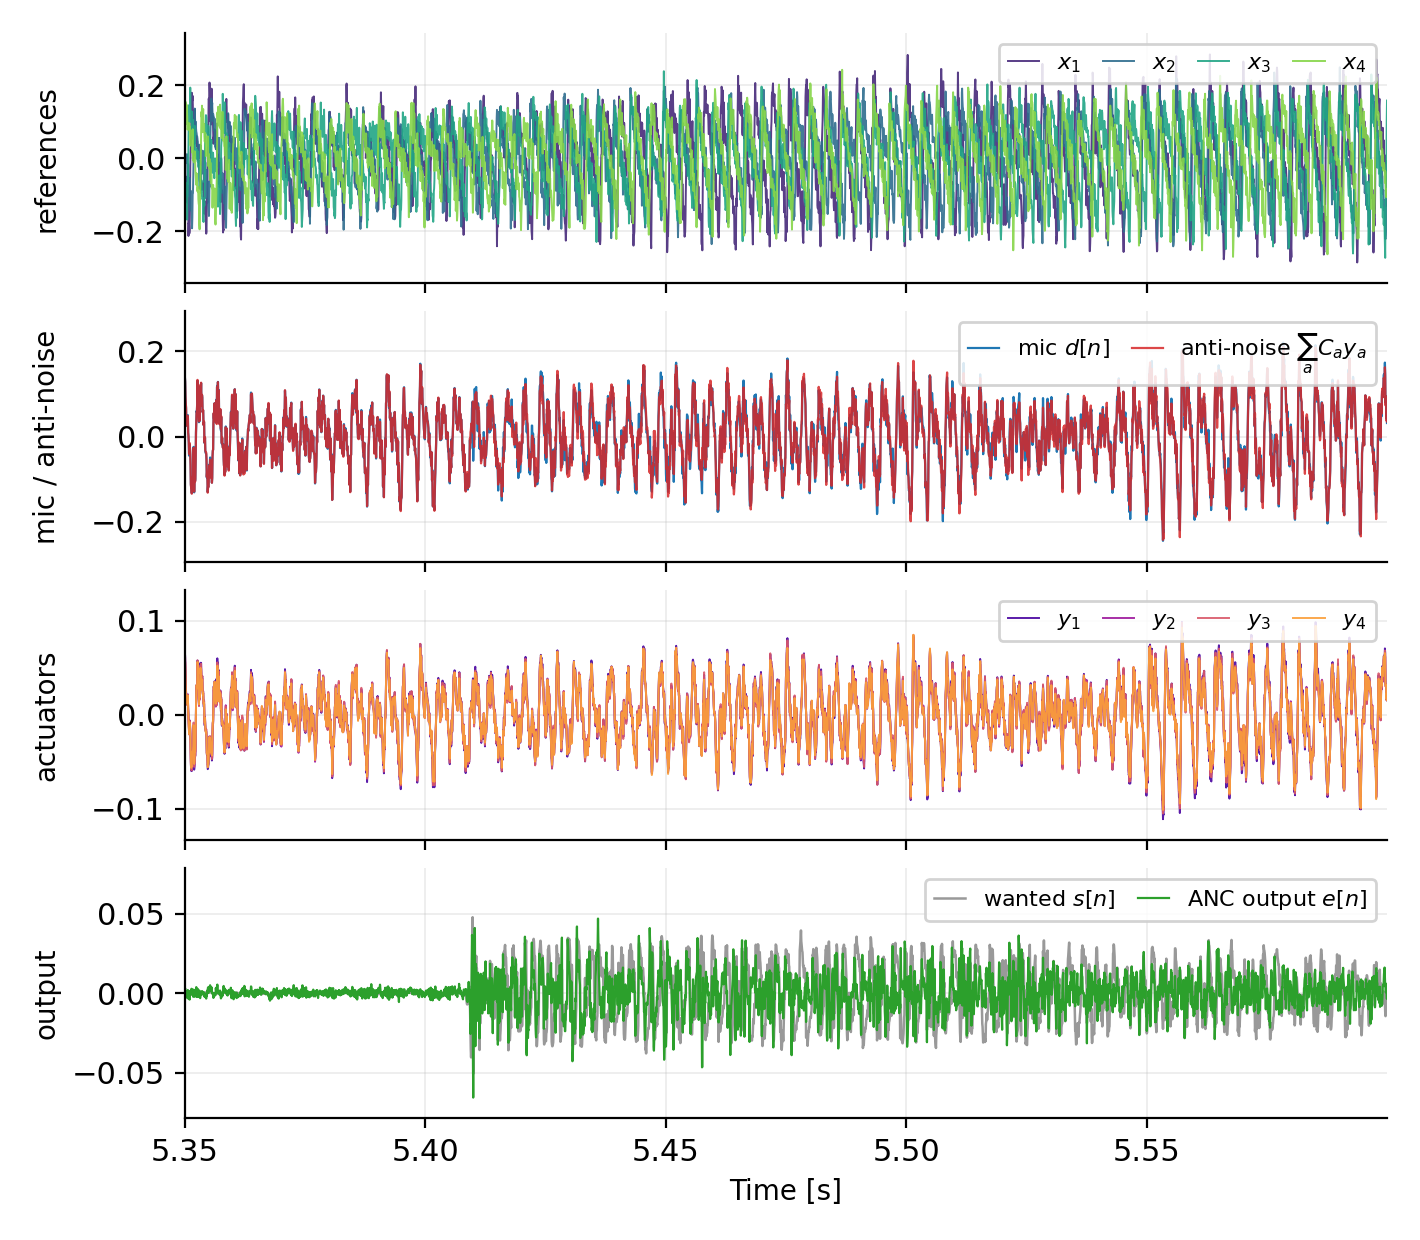
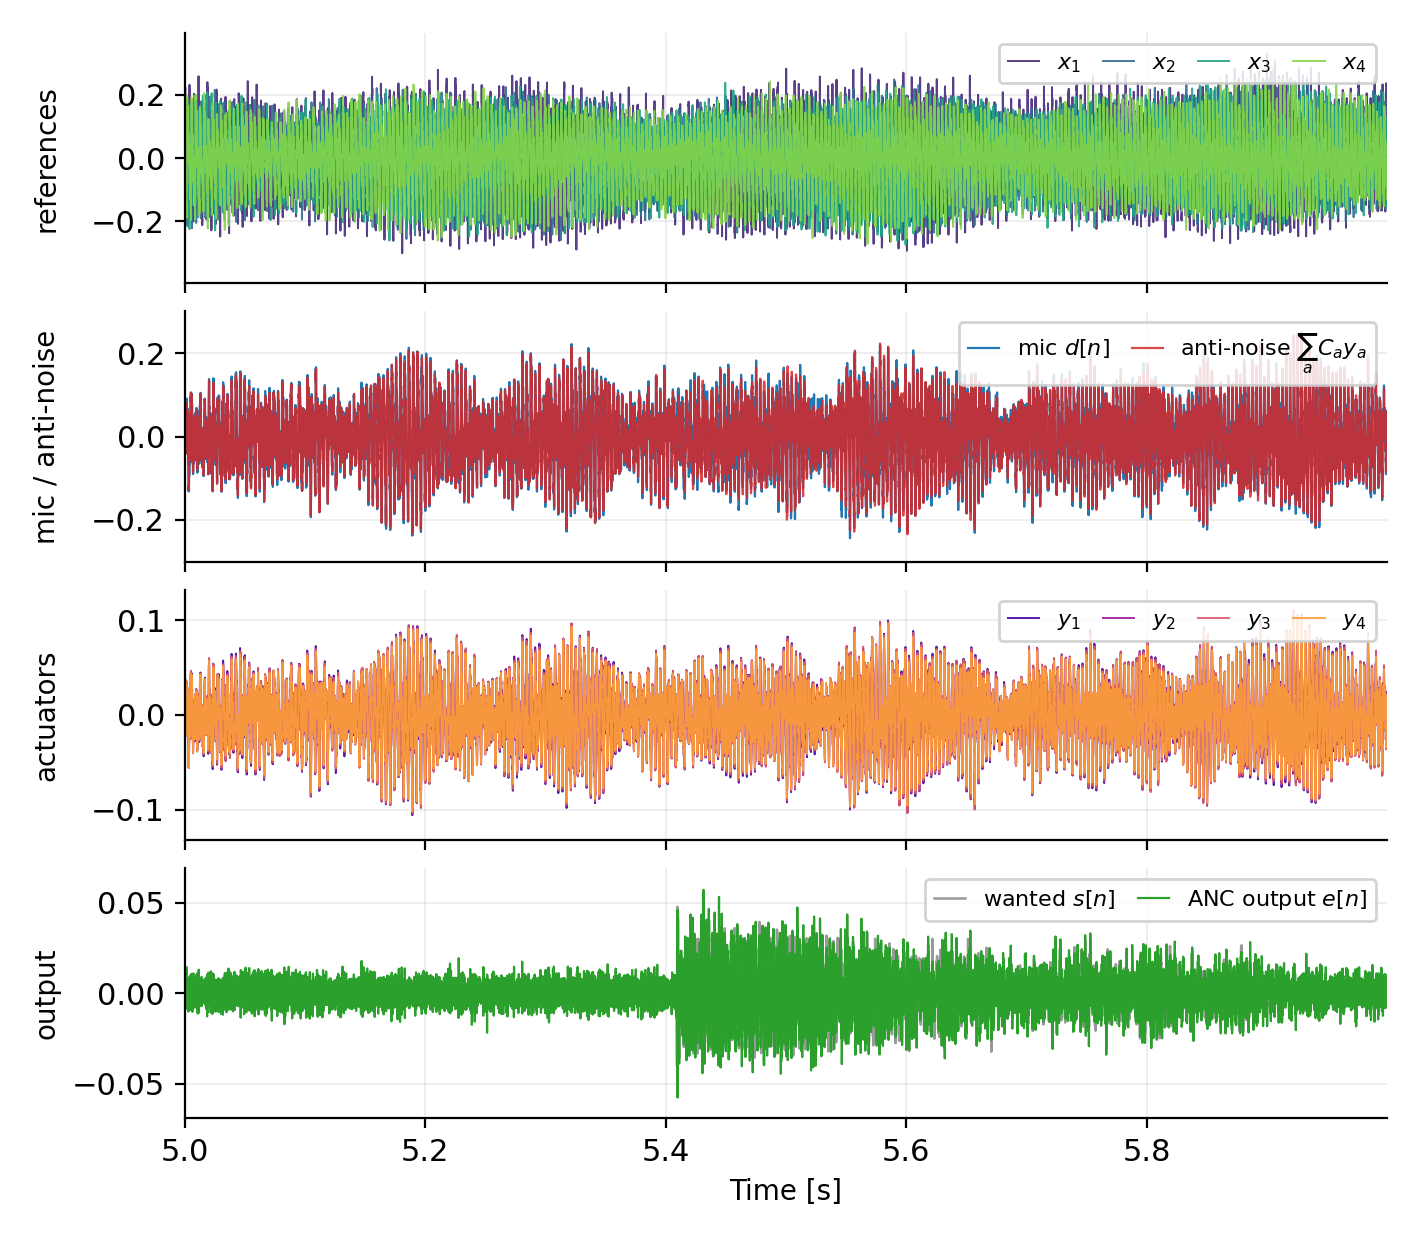
feat: update normalized learning rate in FxLMS algorithm and improve report clarity

diff --git a/scripts/lms-filter/report/main.tex b/scripts/lms-filter/report/main.tex
@@ -34,7 +34,7 @@ maxamart@fel.cvut.cz}}
 \maketitle
 
 \begin{abstract}
-Palubní mikrofon zachycuje spolu s~okolními zvuky také hluk motorů a~vrtulí. Tato složka může u~krátkých impulzních událostí, například výstřelu, výrazně snížit poměr signálu k~rušení. Práce popisuje simulaci aktivního potlačení hluku algoritmem filtered-x least mean squares (FxLMS). Reference vznikají z~řídicích signálů motorů, takže systém nepotřebuje referenční mikrofony. Adaptivní filtr používá normalizovaný krok, jehož jmenovatel tvoří součet výkonů filtrovaných referencí ve všech kanálech. Jedna hodnota rychlosti učení proto vyhovuje konfiguracím SISO, sum-first i~MISO bez ručního přepočtu podle počtu kanálů. Algoritmus je implementován v~jazyce C s~aritmetikou Q15. V~simulovaném scénáři potlačil vlastní hluk dronu o~18{,}8 až 20{,}8\,dB; rozdíl mezi SISO a~maticovou konfigurací 4$\times$4 činil 2\,dB.
+Palubní mikrofon zachycuje spolu s~okolními zvuky také hluk motorů a~vrtulí. Tato složka může u~krátkých impulzních událostí, například výstřelu, výrazně snížit poměr signálu k~rušení. Práce popisuje simulaci aktivního potlačení hluku algoritmem filtered-x least mean squares (FxLMS). Reference vznikají z~řídicích signálů motorů, takže systém nepotřebuje referenční mikrofony. Adaptivní filtr používá normalizovaný krok, jehož jmenovatel tvoří součet výkonů filtrovaných referencí ve všech kanálech. Jedna hodnota rychlosti učení proto vyhovuje konfiguracím SISO, sum-first i~MISO bez ručního přepočtu podle počtu kanálů. Algoritmus je implementován v~jazyce C s~aritmetikou Q15. V~simulovaném scénáři potlačil vlastní hluk dronu o~21{,}3 až 24{,}5\,dB; rozdíl mezi SISO a~maticovou konfigurací 4$\times$4 činil přibližně 3\,dB.
 \end{abstract}
 
 \begin{IEEEkeywords}
@@ -104,7 +104,7 @@ kde $\mu$ je bezrozměrná rychlost učení a $P[n]$ je okamžitý výkon filtro
 Kladná konstanta $\varepsilon$ brání dělení nulou a~omezuje velikost kroku při slabé referenci. Implementace používá aritmetiku Q15 a~saturuje výstup i~váhy.
 
 \subsection*{Normalizovaný krok a jeho význam}
-U~běžného LMS je velikost aktualizace $\mu\,e[n]\,x_f[n-i]$ přímo závislá na výkonu reference. Hodnota $\mu$ zvolená pro jednu úroveň vstupu proto může při silnějším signálu způsobit nestabilitu a~při slabším signálu zpomalit konvergenci. Normalizace výkonem $P[n]$ tuto závislost omezuje. Parametr $\mu$ je bezrozměrný, obvykle se volí v~rozsahu $0<\mu\lesssim 1$ a~v~této práci má hodnotu přibližně 0{,}5. Ve vícekanálové variantě zahrnuje $P[n]$ všechny reference a~aktuátory, takže se $\mu$ nemusí přepočítávat podle počtu kanálů.
+U~běžného LMS je velikost aktualizace $\mu\,e[n]\,x_f[n-i]$ přímo závislá na výkonu reference. Hodnota $\mu$ zvolená pro jednu úroveň vstupu proto může při silnějším signálu způsobit nestabilitu a~při slabším signálu zpomalit konvergenci. Normalizace výkonem $P[n]$ tuto závislost omezuje. Parametr $\mu$ je bezrozměrný, obvykle se volí v~rozsahu $0<\mu\lesssim 1$ a~v~této práci má hodnotu přibližně 0{,}09 (3000 ve~formátu Q15). Ve vícekanálové variantě zahrnuje $P[n]$ všechny reference a~aktuátory, takže se $\mu$ nemusí přepočítávat podle počtu kanálů.
 
 \subsection*{Vektorové rozšíření}
 
@@ -163,21 +163,25 @@ Výsledky v~následující sekci vznikly ze scénáře s~impulzním audio soubor
 \begin{quote}
 \scriptsize\ttfamily
 task run --\\
+--mode miso --reference-count 4\\
+--actuator-count 4\\
 --wanted-wav audio/gunshot-vs-firecracker.wav\\
 --duration-s 10 --plot-window 5..6\\
---spectrum-window 5..6 --wanted-gain 0.1\\
---mode miso --reference-count 4\\
---actuator-count 4
+--spectrum-window 5..6 --wanted-gain 0.1
 \end{quote}
 
 Soubor \code{metrics.json} obsahuje střední kvadratické chyby primárního signálu, chybového signálu a~reziduálního hluku. Útlum dronu v~decibelech počítáme jako
 \begin{equation}
-  A_{\mathrm{drone}} = 10\log_{10}\frac{\mathrm{MSE}(d_{\mathrm{drone}})}{\mathrm{MSE}(e-s)}.
+  A_{\mathrm{drone}} = 10\log_{10}\frac{\mathrm{MSE}(d_{\mathrm{drone}})}{\mathrm{MSE}(e-s)},
+  \label{eq:drone_atten}
 \end{equation}
-Metrika vyjadřuje pouze potlačení vlastního hluku v~daném okně. Úspěšnost detekce výstřelu nehodnotí.
+přičemž obě střední kvadratické chyby se počítají ve~vyhodnocovacím okně 5--6\,s (parametr \code{--spectrum-window}), tedy po~odeznění počátečního přechodového děje. Metrika vyjadřuje pouze potlačení vlastního hluku, úspěšnost detekce výstřelu nehodnotí.
+
+\subsection{Výpočet spektra}
+Spektrální vyhodnocení na~obr.~\ref{fig:spectrum_result} probíhá na témže okně 5--6\,s. Výkonové spektrální hustoty počítáme Welchovou metodou (Hannovo okno 4096 vzorků, 50\,\% překryv), čímž průměrujeme přes několik segmentů. Křivky jsou pro čitelnost vyhlazeny 1/12oktávovým klouzavým průměrem a~vyneseny na~logaritmické frekvenční ose. Útlum v~závislosti na~frekvenci $A(f)=\mathrm{PSD}_{d_{\mathrm{drone}}}(f)-\mathrm{PSD}_{e-s}(f)$ vykreslujeme přes celé pásmo: zeleně frekvence, kde regulátor energii potlačuje, červeně frekvence, kde ji naopak přidává. Na~frekvencích bez dronové energie (pod základní BPF a~nad horní hranicí pracovního pásma) regulátor vkládá slabý anti-hluk; ověřili jsme, že reziduum tam odpovídá výstupu sekundárních cest, jde tedy o~reálně vstříknutou energii, nikoli o~numerický artefakt. Tato složka však leží o~40\,dB i~více pod tonálními složkami dronu (viz absolutní úrovně v~horním panelu), takže do~celkové energie přispívá zanedbatelně; energeticky vážený průměr přes celé pásmo je díky Parsevalově rovnosti shodný s~$A_{\mathrm{drone}}$ podle~\eqref{eq:drone_atten} a~uvádíme jej v~tabulce~\ref{tab:metrics}.
 
 \section{Výsledky}
-Tabulka~\ref{tab:metrics} porovnává tři konfigurace v~okně 5--6\,s. Ve všech případech jsme použili impulzní WAV s~\code{--wanted-gain 0.1}, $\mu=16384$ v~Q15, délku filtru $L=128$ a~vzorkovací kmitočet $f_s=16$\,kHz. Útlum počítáme z~reziduálního hluku $e-s$ po odečtení užitečného signálu.
+Tabulka~\ref{tab:metrics} porovnává tři konfigurace. Útlum je energeticky vážený průměr v~okně 5--6\,s podle~\eqref{eq:drone_atten}. Ve všech případech jsme použili impulzní WAV s~\code{--wanted-gain 0.1}, $\mu=3000$ v~Q15, délku filtru $L=64$ a~vzorkovací kmitočet $f_s=16$\,kHz. Útlum počítáme z~reziduálního hluku $e-s$ po odečtení užitečného signálu.
 
 \begin{table}[htbp]
 \caption{Útlum dronu pro jednotlivé konfigurace (okno 5--6\,s)}
@@ -187,28 +191,28 @@ Tabulka~\ref{tab:metrics} porovnává tři konfigurace v~okně 5--6\,s. Ve všec
 \toprule
 Režim & Reference & Aktuátory & Útlum dronu [dB] \\
 \midrule
-SISO & 1 & 1 & 20{,}8 \\
-sum-first & 1 & 4 & 20{,}1 \\
-MISO & 4 & 4 & 18{,}8 \\
+SISO & 1 & 1 & 24{,}5 \\
+sum-first & 1 & 4 & 24{,}4 \\
+MISO & 4 & 4 & 21{,}3 \\
 \bottomrule
 \end{tabular}
 \end{table}
 
-Naměřený útlum se pohybuje od 18{,}8 do 20{,}8\,dB. MISO se čtyřmi referencemi a~čtyřmi aktuátory používá 16 adaptivních filtrů, přesto za SISO zaostává pouze o~2\,dB. Normalizace podle \eqref{eq:fxlms_power_multi} zmenšuje krok podle celkového výkonu kanálů. Dřívější verze místo toho dělila $\mu$ pevnou konstantou a~u~konfigurace 4$\times$4 dosahovala útlumu pouze v~jednotkách decibelů.
+Naměřený útlum se pohybuje od 21{,}3 do 24{,}5\,dB. MISO se čtyřmi referencemi a~čtyřmi aktuátory používá 16 adaptivních filtrů, přesto za SISO zaostává jen přibližně o~3\,dB. Normalizace podle \eqref{eq:fxlms_power_multi} zmenšuje krok podle celkového výkonu kanálů. Dřívější verze místo toho dělila $\mu$ pevnou konstantou a~u~konfigurace 4$\times$4 dosahovala útlumu pouze v~jednotkách decibelů.
 
-Časový průběh MISO 4$\times$4 na obr.~\ref{fig:time_result} zachycuje okolí impulzu mezi 5{,}35 a~5{,}6\,s. Událost v~čase přibližně 5{,}41\,s zůstává v~chybovém signálu, zatímco periodická složka motorů klesne. Spektra na obr.~\ref{fig:spectrum_result} potvrzují, že filtr tlumí především oblast do 1\,kHz s~dominantními složkami BPF. Nad pracovním pásmem jeho účinek slábne.
+Časový průběh MISO 4$\times$4 na obr.~\ref{fig:time_result} zachycuje okno 5--6\,s. Impulzní událost přibližně v~čase 5{,}4\,s zůstává v~chybovém signálu, zatímco periodická složka motorů klesne. Spektra na obr.~\ref{fig:spectrum_result} potvrzují, že filtr tlumí především tonální složky BPF v~pásmu do 1\,kHz (zeleně), zatímco na~frekvencích bez dronové energie naopak vkládá slabý anti-hluk (červeně) o~desítky dB pod tóny dronu. Energeticky vážený průměr přes celé pásmo proto zůstává určen tonálními složkami a~odpovídá hodnotě z~tabulky. Nad pracovním pásmem účinek postupně slábne.
 
 \begin{figure*}[tb]
 \centering
 \includegraphics[width=0.92\textwidth]{figures/fxlms_demo_miso.png}
-\caption{Časový průběh MISO 4$\times$4 v~okolí impulzu mezi 5{,}35 a~5{,}6\,s. Panely shora zobrazují čtyři motorové reference $x_i[n]$, mikrofonní signál $d[n]$ se součtem odrušovacích složek $\sum_a C_a(z)y_a[n]$, výstupy aktuátorů $y_a[n]$ a~výstup ANC $e[n]$ s~užitečným signálem $s[n]$. Každý panel používá vlastní měřítko svislé osy.}
+\caption{Časový průběh MISO 4$\times$4 v~okně 5--6\,s. Panely shora zobrazují čtyři motorové reference $x_i[n]$, mikrofonní signál $d[n]$ se součtem odrušovacích složek $\sum_a C_a(z)y_a[n]$, výstupy aktuátorů $y_a[n]$ a~výstup ANC $e[n]$ s~užitečným signálem $s[n]$. Každý panel používá vlastní měřítko svislé osy.}
 \label{fig:time_result}
 \end{figure*}
 
 \begin{figure*}[tb]
 \centering
 \includegraphics[width=0.92\textwidth]{figures/fxlms_spectrum_miso.png}
-\caption{Spektrální porovnání MISO 4$\times$4 v~okně 5--6\,s s~logaritmickou frekvenční osou a~1/12oktávovým vyhlazením. Horní panel zobrazuje PSD vstupu $d[n]$, výstupu ANC $e[n]$ a~užitečného signálu $s[n]$. Dolní panel udává útlum dronového hluku; kladné hodnoty znamenají potlačení. Modrá plocha vyznačuje pracovní pásmo ANC do 1\,kHz.}
+\caption{Spektrální porovnání MISO 4$\times$4 v~okně 5--6\,s (Welchova metoda) s~logaritmickou frekvenční osou a~1/12oktávovým vyhlazením. Horní panel zobrazuje PSD vstupu $d[n]$, výstupu ANC $e[n]$ a~užitečného signálu $s[n]$. Dolní panel udává útlum dronového hluku přes celé pásmo: zeleně frekvence s~potlačením, červeně frekvence, kde regulátor energii přidává (slabý anti-hluk o~desítky dB pod tóny dronu).}
 \label{fig:spectrum_result}
 \end{figure*}
 
@@ -256,7 +260,7 @@ Směrové ANC bude vyžadovat polohu každého motoru, reproduktoru a~mikrofonu.
 Vliv filtru na detekci impulzů je třeba ověřit samostatně. Jednoduchý detektor založený na~krátkodobé energii nebo spektrální změně umožní porovnat počet správných a~chybných detekcí před filtrací a~po ní. Klasifikátor má smysl přidat až po tomto měření.
 
 \section{Závěr}
-Implementovaný FxLMS filtr potlačil v~simulaci vlastní hluk dronu o~18{,}8 až 20{,}8\,dB. Normalizovaný krok umožnil použít stejnou rychlost učení v~režimech SISO, sum-first i~MISO. Výsledky platí pro syntetické akustické cesty a~nepředpovídají výkon na skutečném dronu. Ten bude záviset na synchronizaci úhlové reference, koherenci harmonických BPF a~identifikaci sekundárních cest. Prostorové potlačení navíc vyžaduje geometrický model celé sestavy.
+Implementovaný FxLMS filtr potlačil v~simulaci vlastní hluk dronu o~21{,}3 až 24{,}5\,dB. Normalizovaný krok umožnil použít stejnou rychlost učení v~režimech SISO, sum-first i~MISO. Výsledky platí pro syntetické akustické cesty a~nepředpovídají výkon na skutečném dronu. Ten bude záviset na synchronizaci úhlové reference, koherenci harmonických BPF a~identifikaci sekundárních cest. Prostorové potlačení navíc vyžaduje geometrický model celé sestavy.
 
 \bibliographystyle{ieeetr}
 \bibliography{references}

diff --git a/scripts/lms-filter/python/lms_demo.py b/scripts/lms-filter/python/lms_demo.py
@@ -512,17 +512,18 @@ def plot_spectrum_results(
     primary_s = octave_smooth(freqs, primary_db)
     error_s = octave_smooth(freqs, error_db)
     wanted_s = octave_smooth(freqs, wanted_db)
-    attenuation_s = octave_smooth(freqs, drone_db - residual_db)
+    drone_s = octave_smooth(freqs, drone_db)
+    residual_s = octave_smooth(freqs, residual_db)
+    attenuation_s = drone_s - residual_s
 
     has_wanted = bool(np.max(np.abs(wanted)) > 1e-12)
     f_lo = max(20.0, float(freqs[1]) if freqs.size > 1 else 20.0)
     f_hi = fs / 2.0
-    anc_band = min(1000.0, f_hi)
+    positive = freqs > 0
 
     fig, axes = plt.subplots(2, 1, figsize=(7.1, 4.8), sharex=True)
 
     ax = axes[0]
-    ax.axvspan(f_lo, anc_band, color="tab:blue", alpha=0.07)
     ax.semilogx(freqs, primary_s, color="#d62728", label=r"noisy input $d[n]$")
     ax.semilogx(freqs, error_s, color="#2ca02c", label=r"ANC output $e[n]$")
     if has_wanted:
@@ -531,14 +532,22 @@ def plot_spectrum_results(
     ax.set_title("Spectrum: microphone vs. ANC output")
     ax.legend(loc="lower left", ncol=3)
 
+    # Full attenuation curve, including frequencies where the controller ADDS
+    # energy (negative). Green = reduced, red = added. The added levels sit far
+    # below the drone tones (see top panel), so they barely affect the average.
     ax = axes[1]
-    ax.axvspan(f_lo, anc_band, color="tab:blue", alpha=0.07, label="ANC band (<1 kHz)")
-    ax.semilogx(freqs, attenuation_s, color="#1f77b4", label="drone attenuation")
-    ax.axhline(0.0, color="black", lw=0.8, alpha=0.55)
+    ax.set_xscale("log")
+    f_pos = freqs[positive]
+    att_pos = attenuation_s[positive]
+    ax.fill_between(f_pos, att_pos, 0.0, where=att_pos >= 0.0,
+                    color="#2ca02c", alpha=0.25, interpolate=True)
+    ax.fill_between(f_pos, att_pos, 0.0, where=att_pos < 0.0,
+                    color="#d62728", alpha=0.25, interpolate=True)
+    ax.plot(f_pos, att_pos, color="#1f77b4", lw=1.0)
+    ax.axhline(0.0, color="black", lw=0.8, alpha=0.6)
     ax.set_ylabel("Attenuation [dB]")
     ax.set_xlabel("Frequency [Hz]")
-    ax.set_title("Drone attenuation (positive = reduced)")
-    ax.legend(loc="upper right")
+    ax.set_title("Drone attenuation (green = reduced, red = added)")
 
     axes[0].set_xlim(f_lo, f_hi)
     fig.align_ylabels(axes)
